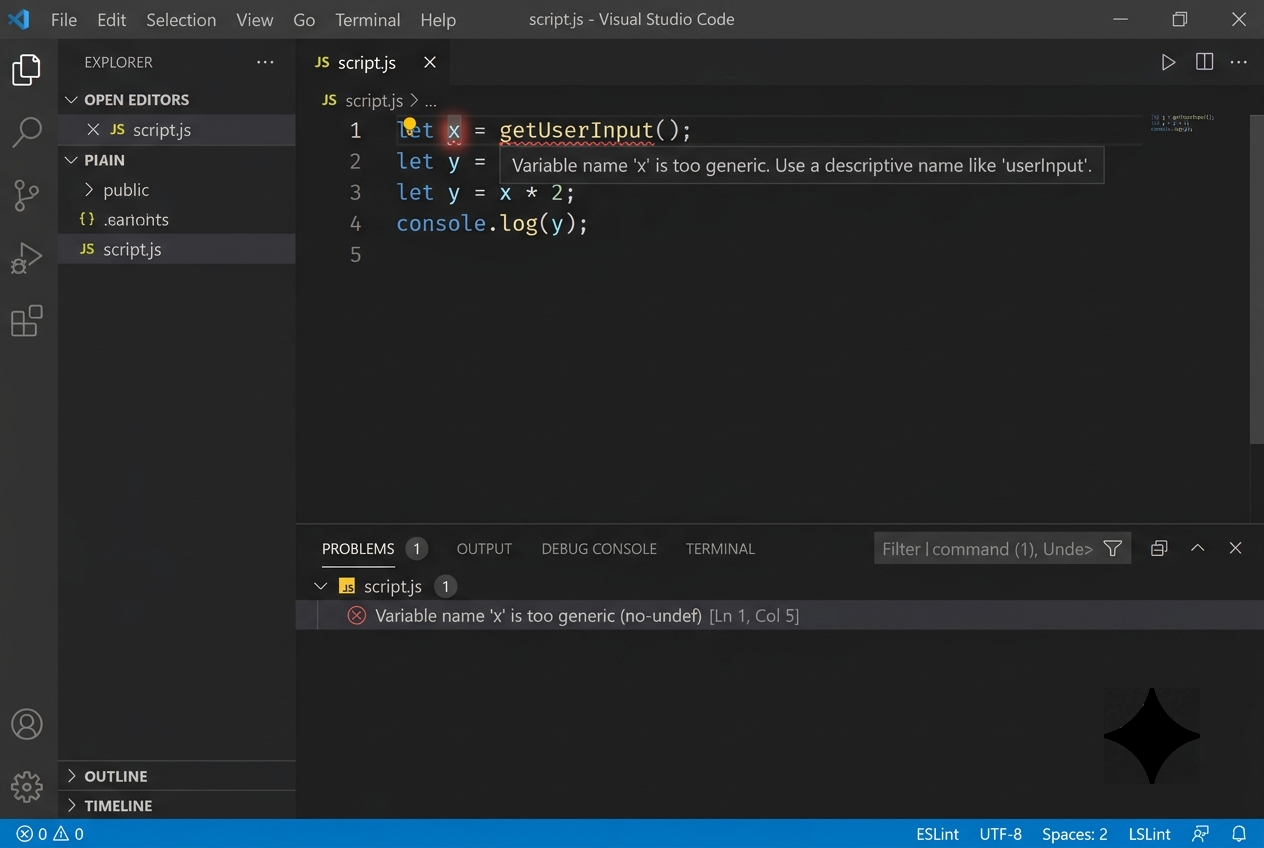
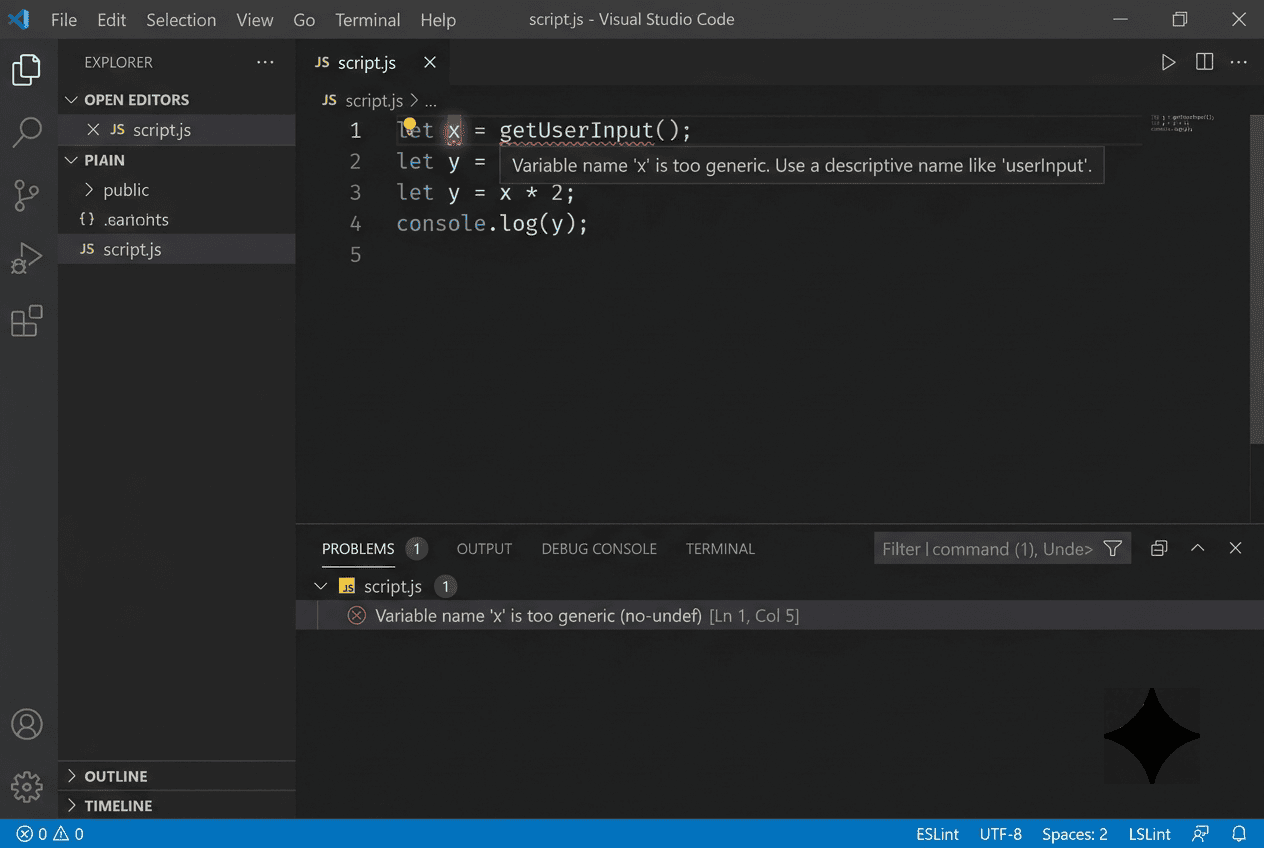
optimize: compress naming convention guide post images

diff --git a/_posts/2025-10-08-naming-convention-guide-for-beginners.md b/_posts/2025-10-08-naming-convention-guide-for-beginners.md
@@ -5,7 +5,7 @@ categories: [Programming, Best Practices]
 tags: [naming-conventions, javascript, cpp, python, github, beginners]
 description: "A practical, no-nonsense guide to naming conventions across JavaScript, C++, Python, and GitHub — with real examples and common mistakes to avoid."
 image:
-  path: /assets/img/posts/naming-convention-guide-for-beginners/cover.png
+  path: /assets/img/posts/naming-convention-guide-for-beginners/cover.jpg
   alt: "Code editor showing variable names before and after applying naming conventions"
 pin: false
 ---
